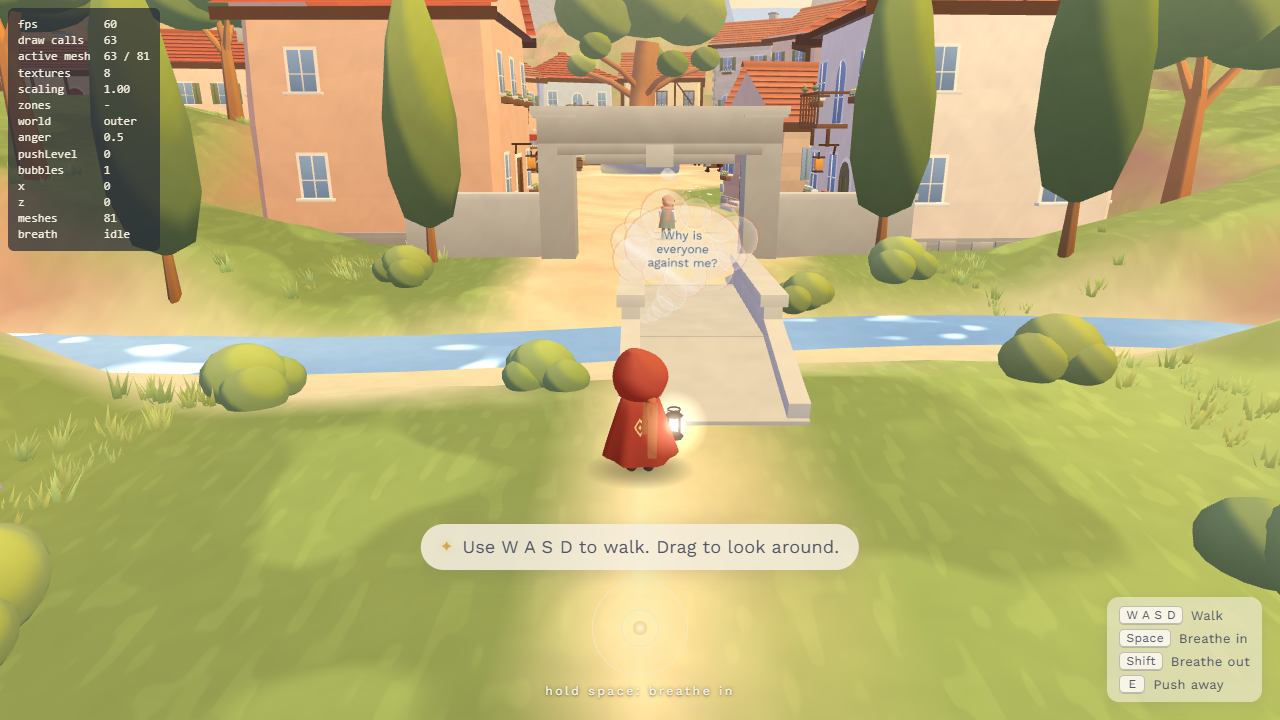
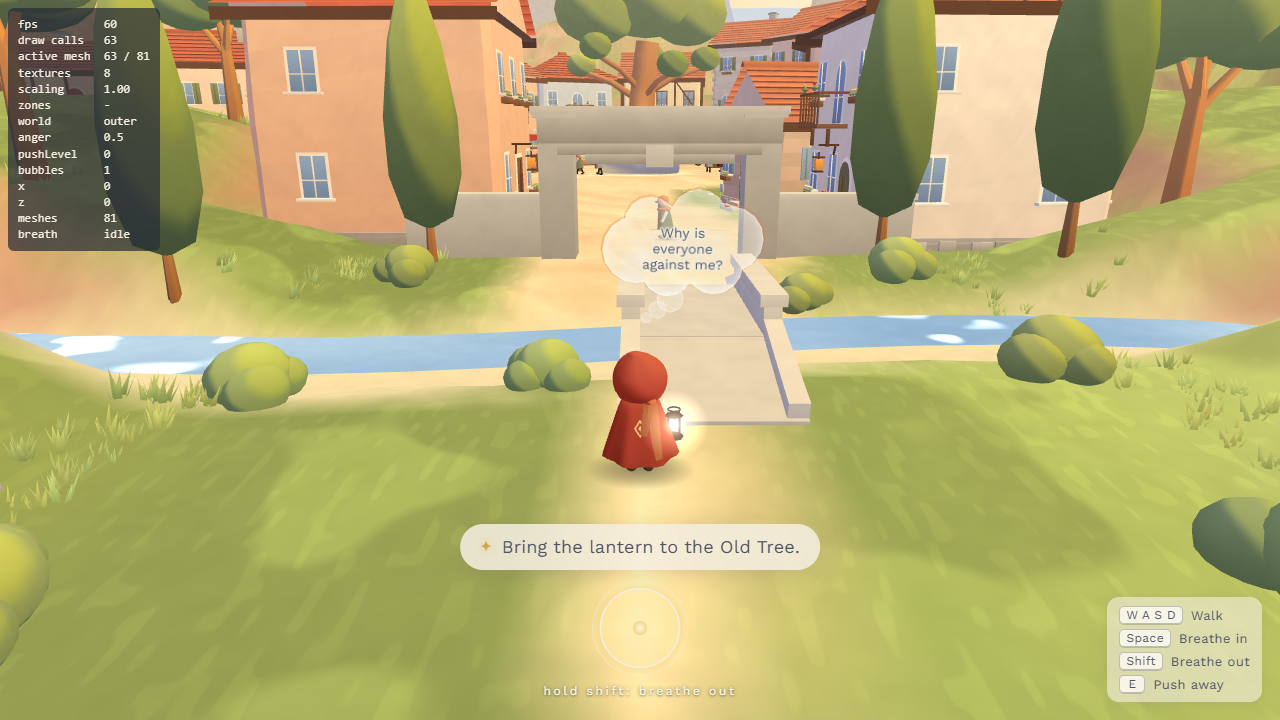
breath 2s rhythm, clearer glass bubbles, town anger ramps in after the bump

diff --git a/src/thought/ThoughtBubble.ts b/src/thought/ThoughtBubble.ts
@@ -6,7 +6,7 @@ import { StandardMaterial } from '@babylonjs/core/Materials/standardMaterial';
 import { DynamicTexture } from '@babylonjs/core/Materials/Textures/dynamicTexture';
 import { Texture } from '@babylonjs/core/Materials/Textures/texture';
 import type { ShaderMaterial } from '@babylonjs/core/Materials/shaderMaterial';
-import { Vector4 } from '@babylonjs/core/Maths/math.vector';
+import { Vector3, Vector4 } from '@babylonjs/core/Maths/math.vector';
 import { createGlassMaterial } from '../shaders/glassShader';
 import type { Scene } from '@babylonjs/core/scene';
 import { PALETTE, SHADES, color3 } from '../config/palette';
@@ -26,7 +26,7 @@ export interface BubbleHooks {
 const TEX_W = 1024;
 const TEX_H = 512;
 /** Text plane size inside the cloud (share of the bubble width). */
-const TEXT_W = 0.72;
+const TEXT_W = 0.83;
 
 /** Shared geometry and materials of one scene's bubbles. */
 export interface BubbleKit {
@@ -41,13 +41,13 @@ function cloudGeometry(scene: Scene, name: string, grow: number): Mesh {
   const main = MeshBuilder.CreateSphere(`${name}.core`, { diameter: 1, segments: 8 }, scene);
   main.scaling.set(0.8 * grow, 0.54 * grow, 0.34 * grow);
   parts.push(main);
-  const n = 11;
+  const n = 6;
   for (let i = 0; i < n; i++) {
     const a = (i / n) * Math.PI * 2 + 0.2;
-    const d = (0.26 + 0.07 * Math.sin(i * 2.3 + 1)) * grow;
+    const d = (0.4 + 0.06 * Math.sin(i * 2.3 + 1)) * grow;
     const p = MeshBuilder.CreateSphere(`${name}.bump${i}`, { diameter: d, segments: 6 }, scene);
-    p.position.set(Math.cos(a) * 0.36 * grow, Math.sin(a) * 0.215 * grow, 0);
-    p.scaling.z = 0.8;
+    p.position.set(Math.cos(a) * 0.33 * grow, Math.sin(a) * 0.19 * grow, 0);
+    p.scaling.z = 0.6;
     parts.push(p);
   }
   const merged = Mesh.MergeMeshes(parts, true, true);
@@ -89,6 +89,8 @@ export class ThoughtBubble {
   private readonly spheres: Mesh[] = [];
   private readonly fill: ShaderMaterial;
   private readonly rimMat: ShaderMaterial;
+  private readonly sphereMat: ShaderMaterial;
+  private readonly prepass: Mesh;
   private readonly textMat: StandardMaterial;
   private readonly tex: DynamicTexture;
   private readonly ivory = color3(PALETTE.ivory);
@@ -104,6 +106,16 @@ export class ThoughtBubble {
       edgeAlpha: TUNING.bubbles.edgeAlpha,
       power: TUNING.bubbles.edgePower,
       streak: TUNING.bubbles.streak,
+      shape: new Vector3(2, 3.2, 6),
+    });
+    this.sphereMat = createGlassMaterial(`bubble.sphereMat.${id}`, scene, {
+      color: this.ivory,
+      edgeColor: color3('#FFFFFF'),
+      centerAlpha: TUNING.bubbles.alpha,
+      edgeAlpha: TUNING.bubbles.edgeAlpha,
+      power: TUNING.bubbles.edgePower,
+      streak: TUNING.bubbles.streak,
+      shape: new Vector3(2, 2, 2),
     });
     this.rimMat = createGlassMaterial(`bubble.rimMat.${id}`, scene, {
       color: this.hot,
@@ -112,6 +124,7 @@ export class ThoughtBubble {
       edgeAlpha: TUNING.bubbles.rimAlpha,
       power: TUNING.bubbles.rimPower,
       streak: 0,
+      shape: new Vector3(2, 3.2, 6),
     });
     this.tex = new DynamicTexture(`bubble.text.${id}`, { width: TEX_W, height: TEX_H }, scene, true, Texture.TRILINEAR_SAMPLINGMODE);
     this.tex.hasAlpha = true;
@@ -127,6 +140,14 @@ export class ThoughtBubble {
     this.cloud = kit.cloud.clone(`bubble.cloud.${id}`);
     this.cloud.material = this.fill;
     this.cloud.parent = this.root;
+    // Depth-only copy: only the front-most surface of the blob is drawn by the glass, so no inner lobe rings.
+    this.prepass = this.cloud.clone(`bubble.prepass.${id}`);
+    const pm = new StandardMaterial(`bubble.prepassMat.${id}`, scene);
+    pm.disableColorWrite = true;
+    pm.disableLighting = true;
+    pm.backFaceCulling = true;
+    this.prepass.material = pm;
+    this.prepass.parent = this.root;
     this.cloud.alphaIndex = 11;
     this.rim = kit.rim.clone(`bubble.rimMesh.${id}`);
     this.rim.material = this.rimMat;
@@ -138,10 +159,10 @@ export class ThoughtBubble {
     this.textPlane.parent = this.root;
     this.textPlane.position.z = -0.2;
     this.textPlane.alphaIndex = 12;
-    const meshes = [this.cloud, this.rim, this.textPlane];
+    const meshes = [this.cloud, this.rim, this.textPlane, this.prepass];
     for (let i = 0; i < TUNING.bubbles.sphereSize.length; i++) {
       const s = kit.sphere.clone(`bubble.sphere.${id}.${i}`);
-      s.material = this.fill;
+      s.material = this.sphereMat;
       s.alphaIndex = 9;
       meshes.push(s);
       this.spheres.push(s);
@@ -298,7 +319,7 @@ export class ThoughtBubble {
   }
 
   private all(): Mesh[] {
-    return [this.cloud, this.rim, this.textPlane, ...this.spheres];
+    return [this.cloud, this.rim, this.textPlane, this.prepass, ...this.spheres];
   }
 
   /** Faces the camera: set by the field each frame. */
@@ -312,12 +333,15 @@ export class ThoughtBubble {
     this.root.position.set(this.x, this.y, this.z);
     this.root.scaling.set(s, s, s);
     this.fill.setVector4('uCfg', new Vector4(B.alpha, B.edgeAlpha, B.edgePower, vis));
+    this.sphereMat.setVector4('uCfg', new Vector4(B.alpha, B.edgeAlpha, B.edgePower, vis));
     this.cloud.visibility = 1;
     this.rimMat.setVector4('uCfg', new Vector4(0, B.rimAlpha, B.rimPower, vis));
     this.textMat.alpha = textVis;
     this.textPlane.visibility = vis;
     this.textPlane.setEnabled(textVis > 0.01 && this.state !== 'gone');
-    this.fill.setColor3('uColor', this.tint.copyFrom(this.ivory).scaleInPlace(1 - this.flash * 0.6).addInPlace(this.hot.scale(this.flash * 0.6)));
+    this.tint.copyFrom(this.ivory).scaleInPlace(1 - this.flash * 0.6).addInPlace(this.hot.scale(this.flash * 0.6));
+    this.sphereMat.setColor3('uColor', this.tint);
+    this.fill.setColor3('uColor', this.tint);
 
     // The tail: small spheres from the head toward the bubble, appearing one after another.
     const n = this.spheres.length;

diff --git a/src/shaders/glassShader.ts b/src/shaders/glassShader.ts
@@ -1,6 +1,7 @@
 import { ShaderMaterial } from '@babylonjs/core/Materials/shaderMaterial';
 import { Effect } from '@babylonjs/core/Materials/effect';
 import { Color3 } from '@babylonjs/core/Maths/math.color';
+import { Vector3 } from '@babylonjs/core/Maths/math.vector';
 import type { Scene } from '@babylonjs/core/scene';
 
 /**
@@ -10,16 +11,17 @@ import type { Scene } from '@babylonjs/core/scene';
 const VERTEX = /* glsl */ `
 precision highp float;
 attribute vec3 position;
-attribute vec3 normal;
 uniform mat4 world;
 uniform mat4 viewProjection;
+uniform vec3 uShape;
 varying vec3 vN;
 varying vec3 vW;
 varying vec3 vL;
 void main(void) {
   vec4 wp = world * vec4(position, 1.0);
   vW = wp.xyz;
-  vN = normalize(mat3(world) * normal);
+  // Smooth blob normal from the position: inner lobes give no edge rings.
+  vN = normalize(mat3(world) * (position * uShape));
   vL = position;
   gl_Position = viewProjection * wp;
 }`;
@@ -55,14 +57,16 @@ export interface GlassOpts {
   edgeAlpha: number;
   power: number;
   streak: number;
+  /** Per-axis scale that turns a local position into a blob normal. */
+  shape: Vector3;
 }
 
 export function createGlassMaterial(name: string, scene: Scene, o: GlassOpts): ShaderMaterial {
   Effect.ShadersStore['glassVertexShader'] = VERTEX;
   Effect.ShadersStore['glassFragmentShader'] = FRAGMENT;
   const m = new ShaderMaterial(name, scene, 'glass', {
-    attributes: ['position', 'normal'],
-    uniforms: ['world', 'viewProjection', 'uCamPos', 'uColor', 'uEdgeColor', 'uCfg', 'uStreak'],
+    attributes: ['position'],
+    uniforms: ['world', 'viewProjection', 'uCamPos', 'uColor', 'uEdgeColor', 'uCfg', 'uStreak', 'uShape'],
     needAlphaBlending: true,
   });
   m.backFaceCulling = true;
@@ -70,6 +74,7 @@ export function createGlassMaterial(name: string, scene: Scene, o: GlassOpts): S
   m.setColor3('uColor', o.color);
   m.setColor3('uEdgeColor', o.edgeColor);
   m.setFloat('uStreak', o.streak);
+  m.setVector3('uShape', o.shape);
   m.setVector4('uCfg', { x: o.centerAlpha, y: o.edgeAlpha, z: o.power, w: 1 } as never);
   m.onBindObservable.add(() => {
     const cam = scene.activeCamera;

diff --git a/src/config/tuning.ts b/src/config/tuning.ts
@@ -121,11 +121,11 @@ export const TUNING = {
 
   breath: {
     /** Target rhythm: seconds in, seconds out. */
-    inhaleTarget: 4,
-    exhaleTarget: 4,
+    inhaleTarget: 2,
+    exhaleTarget: 2,
     /** Breath level change per second while inhaling / exhaling (1 = full in 1 s). */
-    inhaleRate: 1 / 4,
-    exhaleRate: 1 / 4,
+    inhaleRate: 1 / 2,
+    exhaleRate: 1 / 2,
     /** Breath level falls back to 0 this fast when idle. */
     idleDecay: 0.35,
     /** A phase shorter than this is ignored for scoring. */
@@ -631,6 +631,8 @@ export const TUNING = {
     onBump: 0.7, floorBeforeHelp: 0.35,
     push: 0.08, hit: 0.02, pass: -0.05, afterHelp: -0.15,
     fadeOutTime: 4,
+    /** After the bump the town stays calm for townDelayS, then its shown anger ramps up over townRampS. */
+    townDelayS: 4, townRampS: 20,
   },
   waves: {
     rateAtFullAnger: 0.33,   // waves per second at anger 1
@@ -673,7 +675,7 @@ export const TUNING = {
     /** Metres: bubble width at pushLevel 0 (grows by waves.pushGrow per pushLevel). */
     width: 1.55,
     /** Glass: opacity in the middle and at the edge (fresnel power), highlight streak 0..1, and of the thin warm rim (text stays at 1). */
-    alpha: 0.14, edgeAlpha: 0.5, edgePower: 2.2, streak: 1, rimAlpha: 0.4, rimPower: 3,
+    alpha: 0.38, edgeAlpha: 0.7, edgePower: 2.2, streak: 1, rimAlpha: 0.4, rimPower: 3,
     /** Share of the pushLevel growth (waves.pushGrow) that the bubble size follows. */
     growShare: 0.6,
     /** Head height above the feet where the small spheres start. */
@@ -683,8 +685,8 @@ export const TUNING = {
     /** Seconds: spheres rise, then the bubble puffs out. */
     formTime: 1.8,
     /** Sphere diameters (m) and their place on the way from head to bubble (0..1). */
-    sphereSize: [0.1, 0.16, 0.24, 0.34],
-    spherePath: [0.12, 0.32, 0.54, 0.76],
+    sphereSize: [0.12, 0.2, 0.3],
+    spherePath: [0.15, 0.42, 0.72],
     /** The bubble can be pushed once this share of forming is done. */
     pushableAfter: 0.55,
     /** Seconds of breathing before the bubble starts to dissolve, and how long it takes. */

diff --git a/src/game/Story.ts b/src/game/Story.ts
@@ -50,6 +50,8 @@ export class Story {
   private angryT = 0;
   private readonly beacon: Beacon;
   private hintT = 0;
+  /** Seconds since the bump hit (Infinity = no ramp running). */
+  private sinceBump = Infinity;
 
   // Imp
   private impBreaths = 0;
@@ -90,6 +92,13 @@ export class Story {
 
   get beat(): number {
     return this.state.beat;
+  }
+
+  /** 0..1 factor on the anger the town and the imp show: 0 right after the bump, 1 after the ramp. */
+  get townGate(): number {
+    const A = TUNING.anger;
+    const k = Math.min(1, Math.max(0, (this.sinceBump - A.townDelayS) / A.townRampS));
+    return k * k * (3 - 2 * k);
   }
 
   /** Q (Look Within) is locked until the beat-2 invitation. */
@@ -218,6 +227,7 @@ export class Story {
       if (dist2(p.x, p.z, TOWN.waveSource.x, TOWN.waveSource.z) < 12 && !d.dialogue.hasSaid('alleyArrive')) this.say('alleyArrive');
     }
 
+    if (this.sinceBump < Infinity) this.sinceBump += dt;
     this.updateImp(dt);
     this.updateTransform(dt);
 
@@ -311,6 +321,7 @@ export class Story {
     const d = this.d;
     this.state.set('bumped');
     this.state.reach(3);
+    this.sinceBump = 0;
     d.anger.set(TUNING.anger.onBump);
     d.outerLantern.setLight(0.15);
     d.innerLantern.setLight(0.15);

diff --git a/src/game/Game.ts b/src/game/Game.ts
@@ -230,9 +230,11 @@ export class Game {
       field.update(dt);
     }
     this.pushQueued = false;
-    this.heat.apply(this.anger.value);
-    this.outer.setAnger(this.anger.value);
-    this.inner.setAnger(this.anger.value);
+    // The town and the imp show the anger ramped in after the bump (thought first, then the town heats up).
+    const shownAnger = this.anger.value * (this.storyReady ? this.story.townGate : 1);
+    this.heat.apply(shownAnger);
+    this.outer.setAnger(shownAnger);
+    this.inner.setAnger(shownAnger);
     this.hitTint.update(dt);
     if (this.hand) {
       const near = shown === this.current && !this.transition.active;
@@ -285,6 +287,8 @@ export class Game {
         return f instanceof BubbleField ? f.pushable : (f?.count ?? 0) > 0;
       },
       bumps: () => this.outer.bumps,
+      townAgitation: () => this.outer.meanAgitation(),
+      townAnger: () => this.anger.value * (this.storyReady ? this.story.townGate : 1),
       setAnger: (v: number) => {
         this.debugBubbles = true;
         this.anger.set(v);

diff --git a/src/thought/BubbleField.ts b/src/thought/BubbleField.ts
@@ -33,6 +33,7 @@ export class BubbleField implements ThoughtField, BubbleHooks {
   private lastText = '';
   private gap: number = TUNING.bubbles.firstGap;
   private relief = 0;
+  private wasUnlocked = false;
   /** Test hook: how many pushes shoved a bubble. */
   pushes = 0;
   /** Story gate: bubbles only come once this returns true (the bump has happened). */
@@ -98,8 +99,15 @@ export class BubbleField implements ThoughtField, BubbleHooks {
     }
 
     if (!this.anger.active || !this.unlocked()) {
+      this.wasUnlocked = false;
       for (const b of this.bubbles) b.dissolve(true);
       return;
+    }
+    if (!this.wasUnlocked) {
+      // Just unlocked (the bump): the first thought forms right away.
+      this.wasUnlocked = true;
+      this.gap = 0;
+      this.relief = 0;
     }
     if (this.relief > 0) this.relief -= dt;
     if (this.bubbles.some((b) => b.holding)) return;

diff --git a/src/outer/Town.ts b/src/outer/Town.ts
@@ -249,6 +249,13 @@ export class Town implements World {
     return true;
   }
 
+  /** Mean citizen agitation 0..1 (test hook). */
+  meanAgitation(): number {
+    let s = 0;
+    for (const c of this.citizens) s += c.agitation;
+    return s / Math.max(1, this.citizens.length);
+  }
+
   /** Number of citizen bumps so far (test hook). */
   bumps = 0;
   private wobble = 0;
